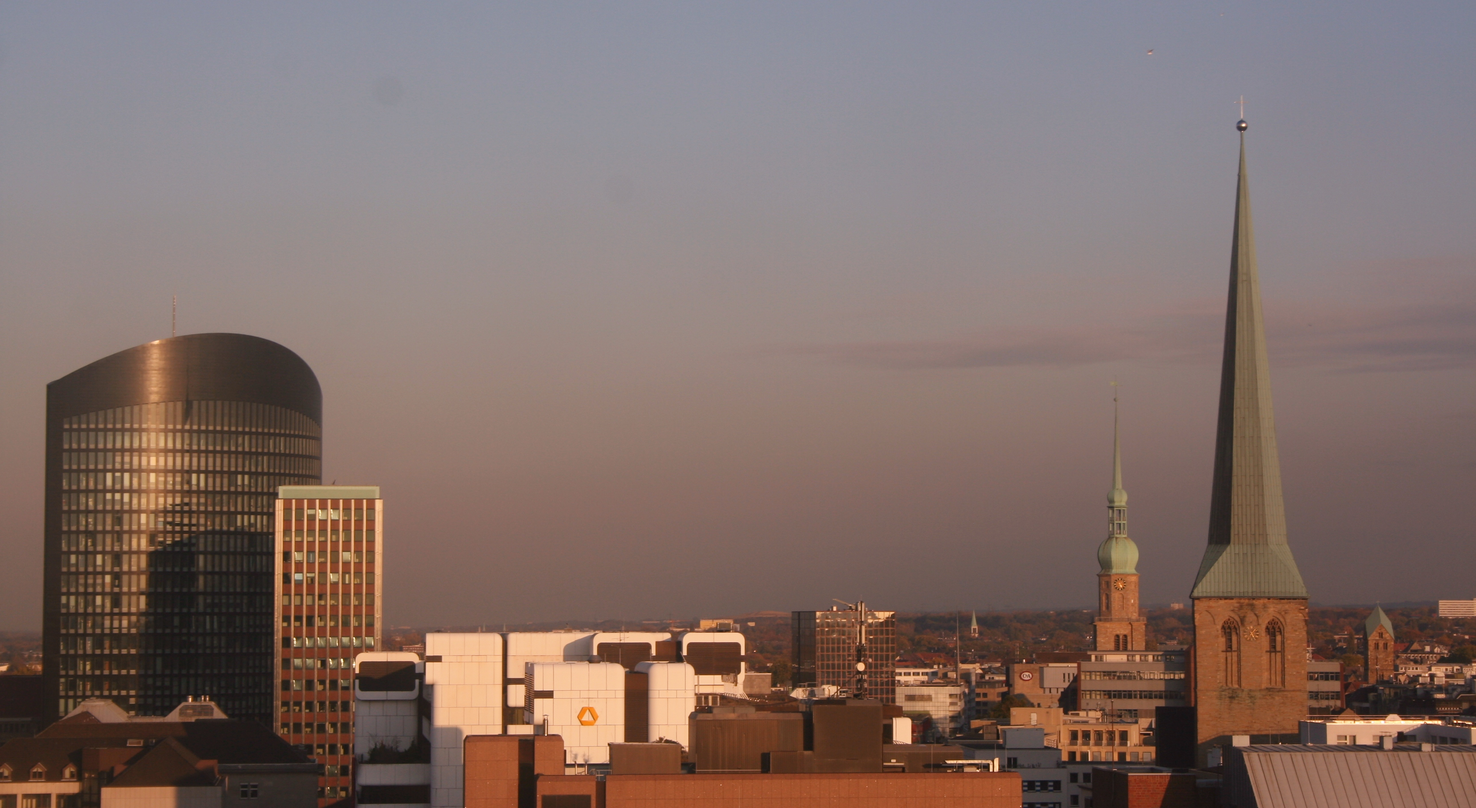
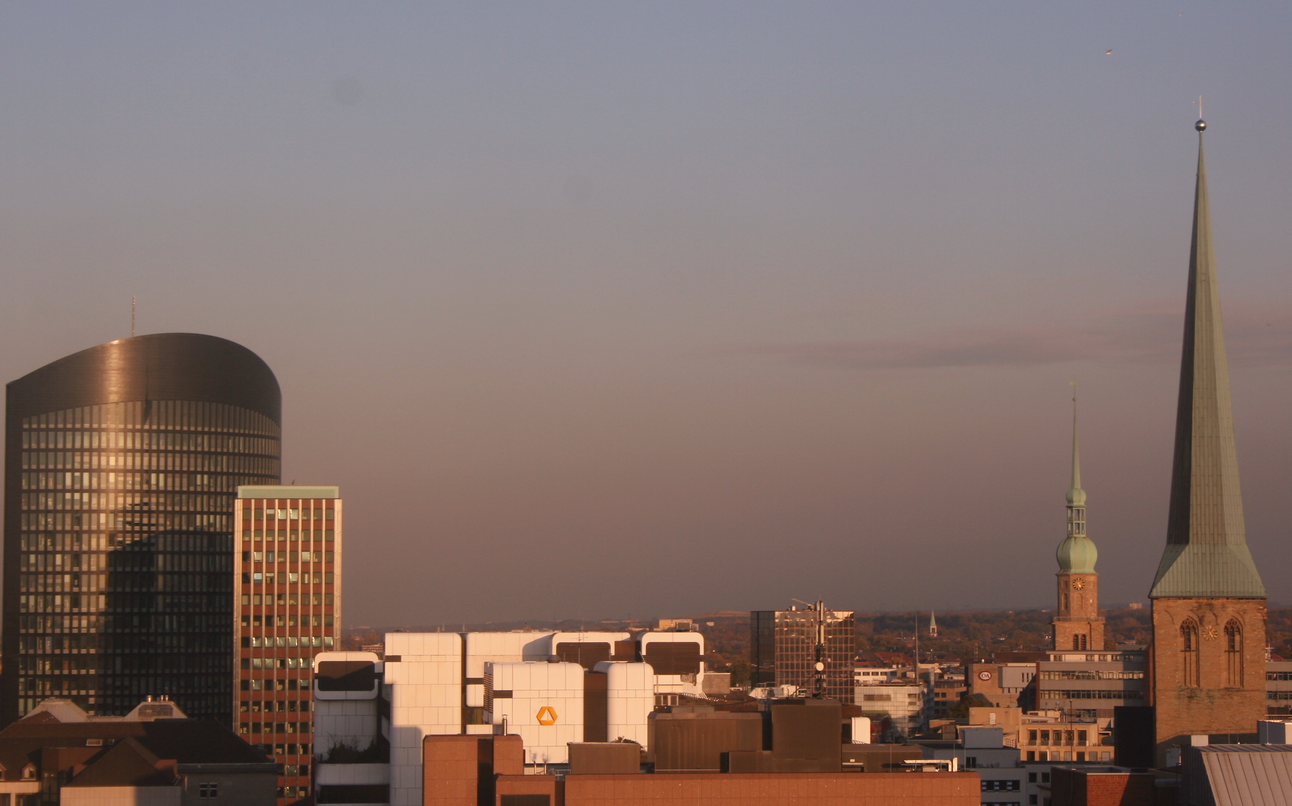
fixed the dortmund image size

Changed region(s): [[0.0, 0.1562, 1.0, 1.0], [0.1863, 0.4375, 0.2174, 0.4688], [0.1553, 0.4062, 0.1863, 0.4375]]

diff --git a/presentations/about-otsconf/index.html b/presentations/about-otsconf/index.html
@@ -108,7 +108,7 @@
     </div></div>
 
 
-		<div class="slide cover shout" id="dortmund"><div>
+		<div class="slide cover shout w" id="dortmund"><div>
 			<section>
 				<header class="with-bg">
 					<h2>OpenTechSchool Dortmund</h2>
